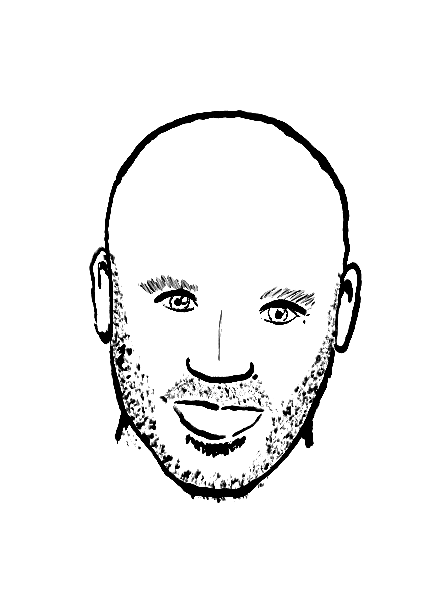
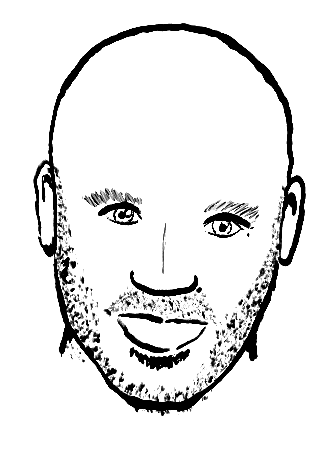
Added text for Caroline, removed rounded css and made the pictures fit better in general

Changed region(s): [[0.0904, 0.0309, 0.9337, 0.9272]]

diff --git a/src/components/ModalScreen.ts b/src/components/ModalScreen.ts
@@ -21,7 +21,7 @@ export default function ModalScreen({ person }: ModalScreenProps): string {
               <div id="image-loader-mobile" class="absolute inset-0 flex items-center justify-center">
                 <div class="animate-spin rounded-full h-8 w-8 border-b-2 border-white"></div>
               </div>
-            <img src="${imageSrc}" alt="${name}" class="w-50 h-50 rounded-full object-cover opacity-0 transition-opacity duration-300"
+            <img src="${imageSrc}" alt="${name}" class="w-50 h-50 object-contain opacity-0 transition-opacity duration-300"
                 onload="this.style.opacity='1'; document.getElementById('image-loader-mobile').style.display='none';">
             </div>
             <div class="text-center">
@@ -47,7 +47,7 @@ export default function ModalScreen({ person }: ModalScreenProps): string {
               <img 
                 src="${imageSrc}" 
                 alt="${name}" 
-                class="w-50 h-50 rounded-full object-coveropacity-0 transition-opacity duration-300"
+                class="w-50 h-50 object-contain opacity-0 transition-opacity duration-300"
                 onload="this.style.opacity='1'; document.getElementById('image-loader-desktop').style.display='none';"
               >
             </div>

diff --git a/src/data/people.ts b/src/data/people.ts
@@ -24,7 +24,7 @@ export const people: Person[] = [
     distance: "30",
     imageSrc: "images/Caroline30.png",
     motivation:
-      "Ik loop heel graag, ik heb speciaal voor deze loop nieuwe loopschoenen aangeschaft, let's get it on!",
+      "Ik loop niet alleen voor de sport maar voor iedereen die vecht of gemist wordt. Dit goede doel ligt me nauw aan het hart.",
     backgroundColor: "t-lightblue",
     imageLoaded: false,
   },
